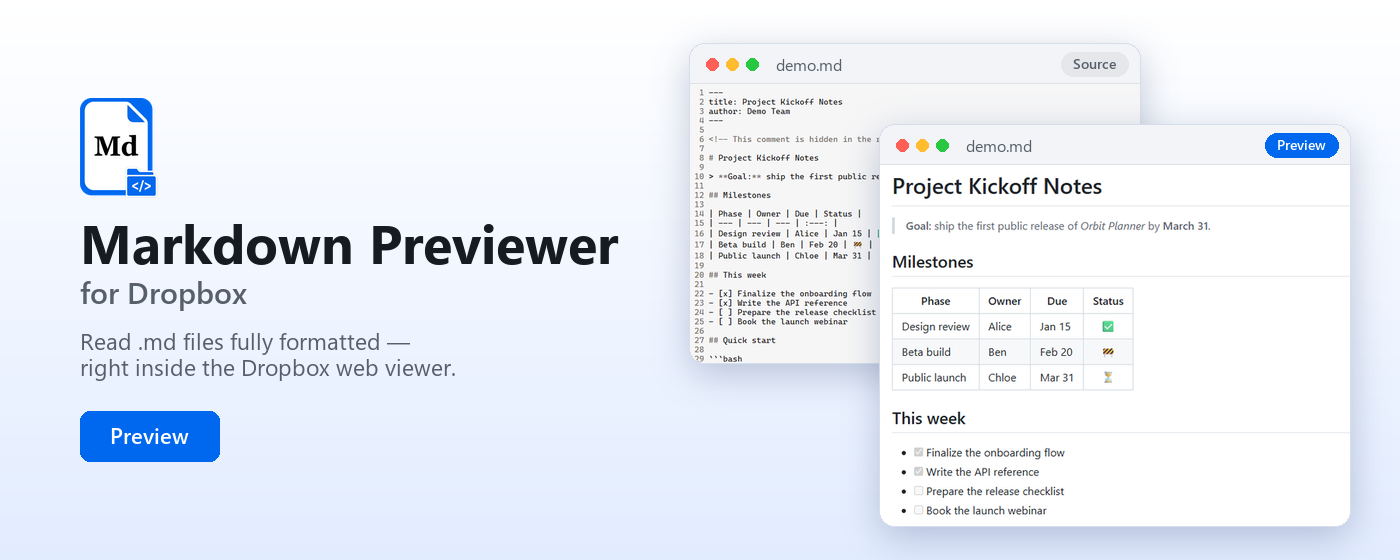
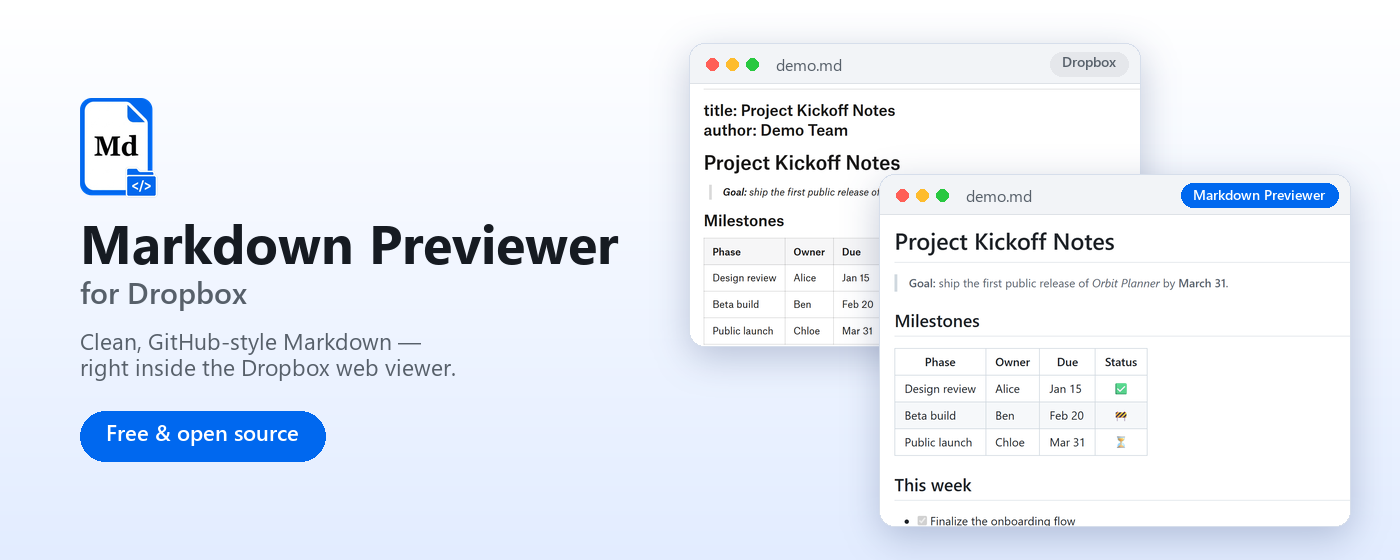
Redesign store screenshots and promo images for v1.1.0
- New 1280x800 screenshots generated by make_screenshots.py from
  English Dropbox captures: Dropbox's view vs. the extension, no extra
  button, quick view and full page, formatting and dark mode
- Replace the annotated raw captures with clean 1440x900@2x captures
- Promo tiles no longer show the removed Preview button

diff --git a/store/screenshots/make_screenshots.py b/store/screenshots/make_screenshots.py
@@ -1,0 +1,205 @@
+"""Generate the Chrome Web Store screenshots (1280x800) in store/screenshots/.
+
+Run from the repo root:  python store/screenshots/make_screenshots.py
+Requires Pillow, NumPy and the Segoe UI fonts that ship with Windows.
+
+Inputs live in store/screenshots/raw/:
+- quickview-*.png / full-page-*.png: Dropbox captured at a 1440x900 viewport
+  @2x, with Dropbox's own Markdown view (-dropbox) and with the extension
+  (-extension)
+- render-light.png / render-dark.png: demo.md rendered by the extension's
+  renderer at 2x, in light and dark mode
+"""
+from pathlib import Path
+
+import numpy as np
+from PIL import Image, ImageDraw, ImageFilter, ImageFont
+
+ROOT = Path(__file__).resolve().parents[2]
+RAW = ROOT / 'store/screenshots/raw'
+OUT = ROOT / 'store/screenshots'
+FONTS = Path('C:/Windows/Fonts')
+W, H = 1280, 800
+
+BLUE = (0, 104, 239)
+MUTED = (87, 96, 106)
+
+# Layout of the captures, in CSS pixels (captures are 2x).
+QUICKVIEW_PANEL = (865, 0, 1440, 900)
+VIEW_TOGGLE = (1125, 88, 161, 32)  # Dropbox's plain-text / Markdown view toggle in quick view
+
+
+def font(name, size):
+    return ImageFont.truetype(str(FONTS / name), size)
+
+
+def capture(name, box=None):
+    img = Image.open(RAW / f'{name}.png').convert('RGB')
+    return img.crop(tuple(v * 2 for v in box)) if box else img
+
+
+def background():
+    """Diagonal blue gradient with two soft light blobs."""
+    x = np.linspace(0, 1, W)[None, :]
+    y = np.linspace(0, 1, H)[:, None]
+    t = np.clip(0.55 * x + 0.45 * y, 0, 1)[..., None]
+    a, b = np.array([0, 72, 196]), np.array([64, 150, 255])
+    img = Image.fromarray((a + (b - a) * t).astype(np.uint8))
+    glow = Image.new('L', (W, H), 0)
+    d = ImageDraw.Draw(glow)
+    d.ellipse((-200, 380, 420, 1000), fill=60)
+    d.ellipse((900, -260, 1500, 340), fill=50)
+    glow = glow.filter(ImageFilter.GaussianBlur(90))
+    img.paste((255, 255, 255), (0, 0), glow)
+    return img
+
+
+def heading(img, title, subtitle):
+    d = ImageDraw.Draw(img)
+    for text, fnt, y, fill in [
+        (title, font('segoeuib.ttf', 44), 48, 'white'),
+        (subtitle, font('segoeui.ttf', 22), 116, (225, 236, 255)),
+    ]:
+        w = d.textlength(text, font=fnt)
+        d.text(((W - w) / 2, y), text, font=fnt, fill=fill)
+
+
+def rounded_mask(size, radius, bottom=True, right=True):
+    m = Image.new('L', size, 0)
+    d = ImageDraw.Draw(m)
+    d.rounded_rectangle((0, 0, size[0] - 1, size[1] - 1), radius=radius, fill=255)
+    # square corners on edges that run off the canvas
+    if not bottom:
+        d.rectangle((0, size[1] - radius, size[0], size[1]), fill=255)
+    if not right:
+        d.rectangle((size[0] - radius, 0, size[0], size[1]), fill=255)
+    return m
+
+
+def place(canvas, img, xy, radius=14, bottom=True, right=True, shadow=90):
+    x, y = xy
+    sh = Image.new('L', canvas.size, 0)
+    ImageDraw.Draw(sh).rounded_rectangle((x, y + 14, x + img.width, y + img.height + 14), radius=radius, fill=shadow)
+    canvas.paste((0, 30, 90), (0, 0), sh.filter(ImageFilter.GaussianBlur(22)))
+    canvas.paste(img, (x, y), rounded_mask(img.size, radius, bottom, right))
+
+
+def fit(img, width):
+    return img.resize((width, round(img.height * width / img.width)), Image.LANCZOS)
+
+
+def pill(d, xy, text, fnt, fill, color, pad_x, height):
+    tb = fnt.getbbox(text)
+    w = tb[2] - tb[0] + 2 * pad_x
+    x, y = xy
+    d.rounded_rectangle((x, y, x + w, y + height), radius=height // 2, fill=fill)
+    d.text((x + pad_x - tb[0], y + (height - (tb[3] - tb[1])) / 2 - tb[1]), text, font=fnt, fill=color)
+    return w
+
+
+def window(content, width, label=None, label_style='blue'):
+    """A simple browser-like card: title bar with dots, file name and an optional label."""
+    bar = 42
+    content = fit(content, width)
+    c = Image.new('RGB', (width, bar + content.height), 'white')
+    d = ImageDraw.Draw(c)
+    d.rectangle((0, 0, width, bar), fill=(241, 243, 246))
+    d.line((0, bar - 1, width, bar - 1), fill=(220, 224, 230))
+    for i, col in enumerate([(255, 95, 87), (254, 188, 46), (40, 200, 64)]):
+        d.ellipse((16 + i * 20, 15, 28 + i * 20, 27), fill=col)
+    d.text((88, 10), 'demo.md', font=font('segoeui.ttf', 16), fill=MUTED)
+    if label:
+        lf = font('seguisb.ttf', 14)
+        lw = d.textlength(label, font=lf) + 26
+        fill, color = (BLUE, 'white') if label_style == 'blue' else ((226, 229, 234), MUTED)
+        pill(d, (width - lw - 12, 9), label, lf, fill, color, 13, 24)
+    c.paste(content, (0, bar))
+    return c
+
+
+def cut_at_blank(img, top, bottom):
+    """Crop rows top..bottom, moving the bottom edge up to the nearest blank row."""
+    a = np.asarray(img.convert('L'), dtype=np.int16)
+    for y in range(bottom, top + 1, -1):
+        row = a[y - 1]
+        if row.max() - row.min() < 6:
+            return img.crop((0, top, img.width, y))
+    return img.crop((0, top, img.width, bottom))
+
+
+def save(img, name):
+    img.convert('RGB').save(OUT / name, optimize=True)
+    print('Saved', (OUT / name).relative_to(ROOT))
+
+
+label_font = font('seguisb.ttf', 17)
+
+# 1. Dropbox's Markdown view vs. the extension, same quick-view panel
+img = background()
+heading(img, "Dropbox's Markdown view, upgraded",
+        'Same file, same viewer, with clean GitHub-style formatting.')
+before = fit(capture('quickview-dropbox', QUICKVIEW_PANEL), 540)
+after = fit(capture('quickview-extension', QUICKVIEW_PANEL), 540)
+place(img, before, (70, 230), bottom=False)
+place(img, after, (670, 230), bottom=False)
+d = ImageDraw.Draw(img)
+pill(d, (70, 186), 'Dropbox', label_font, (226, 229, 234), MUTED, 16, 32)
+pill(d, (670, 186), 'With Markdown Previewer', label_font, 'white', BLUE, 16, 32)
+cx, cy = 640, 470
+d.ellipse((cx - 34, cy - 34, cx + 34, cy + 34), fill='white')
+d.polygon([(cx - 14, cy - 16), (cx + 18, cy), (cx - 14, cy + 16)], fill=BLUE)
+save(img, '01-before-after.png')
+
+# 2. Nothing extra to click; Dropbox's own toggle shows the source
+img = background()
+heading(img, 'Nothing extra to click',
+        "Markdown files open fully formatted. Dropbox's view toggle still shows the source.")
+shot = capture('quickview-extension')
+scale = 1040 / (shot.width / 2)  # display px per CSS px
+place(img, fit(shot, 1040), (120, 186), bottom=False)
+# magnifier over Dropbox's view toggle
+tx, ty, tw, th = VIEW_TOGGLE
+cx, cy = tx + tw / 2, ty + th / 2
+r, half = 120, 90  # lens radius (display px), half-size of the sampled area (CSS px)
+# only the toolbar row around the toggle, magnified on a white lens
+strip = capture('quickview-extension', (round(cx - half), round(cy - th / 2 - 4), round(cx + half), round(cy + th / 2 + 4)))
+strip = fit(strip, 2 * r)
+lens = Image.new('RGB', (2 * r, 2 * r), 'white')
+lens.paste(strip, (0, r - strip.height // 2))
+mask = Image.new('L', lens.size, 0)
+ImageDraw.Draw(mask).ellipse((0, 0, 2 * r - 1, 2 * r - 1), fill=255)
+lx, ly = round(120 + cx * scale - r), round(186 + cy * scale - r + 70)
+sh = Image.new('L', img.size, 0)
+ImageDraw.Draw(sh).ellipse((lx - 6, ly + 6, lx + 2 * r + 6, ly + 2 * r + 18), fill=110)
+img.paste((0, 30, 90), (0, 0), sh.filter(ImageFilter.GaussianBlur(16)))
+d = ImageDraw.Draw(img)
+d.ellipse((lx - 7, ly - 7, lx + 2 * r + 7, ly + 2 * r + 7), fill='white', outline=BLUE, width=3)
+img.paste(lens, (lx, ly), mask)
+cap_w = d.textlength('Switch views anytime', font=label_font) + 32
+pill(d, (round(lx + r - cap_w / 2), ly + 2 * r + 18), 'Switch views anytime', label_font, BLUE, 'white', 16, 34)
+save(img, '02-nothing-to-click.png')
+
+# 3. Quick view and full page
+img = background()
+heading(img, 'Works in quick view and full-page preview',
+        'Preview from the file list side panel, or open the file full screen.')
+full = fit(capture('full-page-extension'), 1040)
+place(img, full, (330, 216), bottom=False, right=False)
+panel = fit(capture('quickview-extension', QUICKVIEW_PANEL), 340)
+place(img, panel, (60, H - panel.height + 60), bottom=False)
+d = ImageDraw.Draw(img)
+pill(d, (60, H - panel.height + 18), 'Quick view', label_font, 'white', BLUE, 16, 32)
+pill(d, (330, 172), 'Full page', label_font, 'white', BLUE, 16, 32)
+save(img, '03-quick-view-and-full-page.png')
+
+# 4. Formatting and dark mode
+render_light = Image.open(RAW / 'render-light.png').convert('RGB')
+render_dark = Image.open(RAW / 'render-dark.png').convert('RGB')
+img = background()
+heading(img, 'Tables, task lists and highlighted code',
+        "GitHub-style formatting that follows Dropbox's light or dark theme.")
+light = window(cut_at_blank(render_light.crop((0, 0, 1360, 2338)), 0, 1040), 620, 'Light')
+dark = window(cut_at_blank(render_dark.crop((0, 0, 1360, 2338)), 1100, 2000), 620, 'Dark', 'grey')
+place(img, light, (70, 190))
+place(img, dark, (590, 292))
+save(img, '04-formatting-dark-mode.png')

diff --git a/store/promo/make_marquee.py b/store/promo/make_marquee.py
@@ -75,15 +75,17 @@ def place(canvas, img, xy, radius=14):
 canvas = gradient((W, H), (255, 255, 255), (226, 236, 255))
 draw = ImageDraw.Draw(canvas)
 
-# Right: raw Markdown behind, rendered preview in front.
-src = Image.open(ROOT / 'store/screenshots/03-full-page-source.png').crop((15, 215, 700, 640))
-pre = Image.open(ROOT / 'store/screenshots/04-full-page-preview.png').crop((225, 250, 830, 715))
-back = card(src, 450, 'Source', (229, 231, 235), MUTED)
-front = card(pre, 470, 'Preview', BLUE, 'white')
+# Right: Dropbox's own Markdown view behind, the extension's in front.
+# Crop boxes are CSS pixels of the 2x captures.
+crop2x = lambda img, box: img.crop(tuple(v * 2 for v in box))
+src = crop2x(Image.open(ROOT / 'store/screenshots/raw/full-page-dropbox.png'), (40, 150, 700, 535))
+pre = crop2x(Image.open(ROOT / 'store/screenshots/raw/full-page-extension.png'), (250, 150, 900, 580))
+back = card(src, 450, 'Dropbox', (229, 231, 235), MUTED)
+front = card(pre, 470, 'Markdown Previewer', BLUE, 'white')
 place(canvas, back, (690, 44))
 place(canvas, front, (W - 470 - 50, H - front.height - 34))
 
-# Left: icon, title, tagline and the Preview button.
+# Left: icon, title, tagline and a badge.
 icon = Image.open(ROOT / 'icons/icon.png').convert('RGBA')
 icon = icon.crop(icon.getchannel('A').getbbox())
 icon = icon.resize((round(icon.width * 100 / icon.height), 100), Image.LANCZOS)
@@ -96,7 +98,7 @@ items = [
     ('icon', None, None, 100, 26),
     ('Markdown Previewer', title, INK, None, 16),
     ('for Dropbox', sub, MUTED, None, 22),
-    ('Read .md files fully formatted —', body, MUTED, None, 4),
+    ('Clean, GitHub-style Markdown —', body, MUTED, None, 4),
     ('right inside the Dropbox web viewer.', body, MUTED, None, 30),
     ('button', None, None, 50, 0),
 ]
@@ -106,7 +108,7 @@ for (text, fnt, color, _, gap), h in zip(items, heights):
     if text == 'icon':
         canvas.paste(icon, (x, y), icon)
     elif text == 'button':
-        pill(draw, (x, y), 'Preview', font('seguisb.ttf', 22), BLUE, 'white', 30, 50, 10)
+        pill(draw, (x, y), 'Free & open source', font('seguisb.ttf', 22), BLUE, 'white', 26, 50, 25)
     else:
         draw.text((x, y - fnt.getbbox(text)[1]), text, font=fnt, fill=color)
     y += h + gap

diff --git a/store/promo/make_small_tile.py b/store/promo/make_small_tile.py
@@ -42,8 +42,8 @@ lines = [('Markdown', bold, INK), ('Previewer', bold, INK), ('for Dropbox', semi
 gaps = [2 * S, 10 * S, 0]
 heights = [d.getbbox(t)[3] - d.getbbox(t)[1] for t, d, _ in lines]
 
-# "Preview" pill, matching the button the extension adds.
-btn_text = 'Preview'
+# Badge under the title.
+btn_text = 'Free & open source'
 tb = btn_font.getbbox(btn_text)
 btn_w, btn_h = tb[2] - tb[0] + 28 * S, 34 * S
 btn_gap = 18 * S
@@ -55,7 +55,7 @@ for (text, font, color), h, gap in zip(lines, heights, gaps):
     y += h + gap
 
 y += btn_gap
-draw.rounded_rectangle((x, y, x + btn_w, y + btn_h), radius=8 * S, fill=BLUE)
+draw.rounded_rectangle((x, y, x + btn_w, y + btn_h), radius=btn_h // 2, fill=BLUE)
 draw.text(
     (x + (btn_w - (tb[2] - tb[0])) / 2 - tb[0], y + (btn_h - (tb[3] - tb[1])) / 2 - tb[1]),
     btn_text, font=btn_font, fill='white',

diff --git a/store/README.md b/store/README.md
@@ -17,7 +17,19 @@ store/
 | 格式 | PNG 或 JPEG |
 | 數量 | 至少 1 張，最多 5 張 |
 
-建議檔名：`01-quickview.png`、`02-full-preview.png`……，數字代表在商店顯示的順序。
+檔名開頭的數字代表在商店顯示的順序。
+
+| 檔案 | 標題 |
+| --- | --- |
+| `01-before-after.png` | Dropbox's Markdown view, upgraded |
+| `02-nothing-to-click.png` | Nothing extra to click |
+| `03-quick-view-and-full-page.png` | Works in quick view and full-page preview |
+| `04-formatting-dark-mode.png` | Tables, task lists and highlighted code |
+
+這四張由 `make_screenshots.py` 產生，在 repo 根目錄執行 `python store/screenshots/make_screenshots.py` 即可重新產生。素材放在 `raw/`：
+
+- `quickview-*.png`、`full-page-*.png`：以 1440×900、2 倍解析度在 Dropbox 截的快速預覽與完整預覽畫面。`-dropbox` 是 Dropbox 原本的 Markdown 檢視，`-extension` 是裝了擴充功能後的畫面。
+- `render-light.png`、`render-dark.png`：用擴充功能的渲染器把 `demo.md` 以 2 倍解析度渲染出的淺色／深色畫面。
 
 截圖請使用示範用的 Markdown 檔，不要露出真實資料、帳號名稱或共享成員的名字。
 
@@ -31,6 +43,6 @@ store/
 兩張圖都由腳本產生，在 repo 根目錄執行即可重新產生：
 
 - `python store/promo/make_small_tile.py`：用 `icons/icon.png` 產生 `small-tile.png`
-- `python store/promo/make_marquee.py`：用 `icons/icon.png` 和 `screenshots/03`、`04` 產生 `marquee.png`（24 位元 PNG，無透明層）
+- `python store/promo/make_marquee.py`：用 `icons/icon.png` 和 `screenshots/raw/full-page-*.png` 產生 `marquee.png`（24 位元 PNG，無透明層）
 
 商店圖示（128×128）直接使用 `icons/icon128.png`，不需另外準備。
